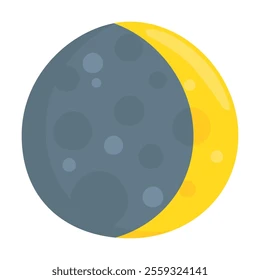
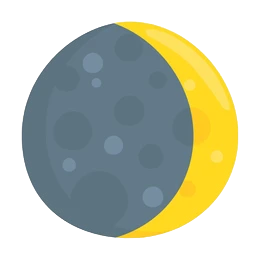
removed the bg from the images and resized the pictures

diff --git a/script.js b/script.js
@@ -6,14 +6,14 @@ const nextBtn = document.getElementById("next");
 let currentDate = new Date();
 
 const phaseImages = {
-  "New Moon": "newMoon.png",
-  "Waxing Crescent": "img/waxingCrescent.png",
-  "First Quarter": "img/firstQuarter.png",
-  "Waxing Gibbous" :"img/waxingGibbous.png",
-  "Full Moon" : "img/fullMoon.jpg",
-  "Waning Gibbous": "img/waningGibbous.png",
-  "Last Quarter" : "img/lastQuarter.png",
-  "Waning Crescent": "img/waningCrescent.png"
+ "New Moon": "img/newMoon.png",
+"Waxing Crescent": "img/waxingCrescent.png",
+"First Quarter": "img/firstQuarter.png",
+"Waxing Gibbous": "img/waxingGibbous.png",
+"Full Moon": "img/fullMoon.png",
+"Waning Gibbous": "img/waningGibbous.png",
+"Last Quarter": "img/lastQuarter.png",
+"Waning Crescent": "img/waningCrescent.png"
 };
 
 function showDay(date) {
@@ -47,7 +47,7 @@ const imgSrc = phaseImages[formattedPhase]
   calendarDiv.innerHTML = `
     <div class="day">
       <strong>${dateString}</strong><br>
-      <img src="${imgSrc}" alt="${formattedPhase}" style="width:100px;height:100px;"><br>
+      <img src="${imgSrc}" alt="${formattedPhase}" style="width:300px;height:300px;"><br>
       ${formattedPhase}<br>
       🌙 ${illuminationText}
     </div>

diff --git a/style.css b/style.css
@@ -15,8 +15,8 @@ background-image: url('buttons/next.png')
 }
 #before,
 #next {
-  width: 48px;
-  height: 48px;
+  width: 80px;
+  height: 80px;
   background-size: cover;      /* Makes the image fill the button */
   background-repeat: no-repeat;
   background-position: center;
@@ -26,6 +26,12 @@ background-image: url('buttons/next.png')
   outline: none;
   color: transparent;          /* Hides any text */
   border-radius: 50%;           /* Makes the button circular */
+}
+
+#before:hover,
+#next:hover {
+  transform: scale(1.15);
+  transition: transform 0.2s;
 }
 
 .day {
